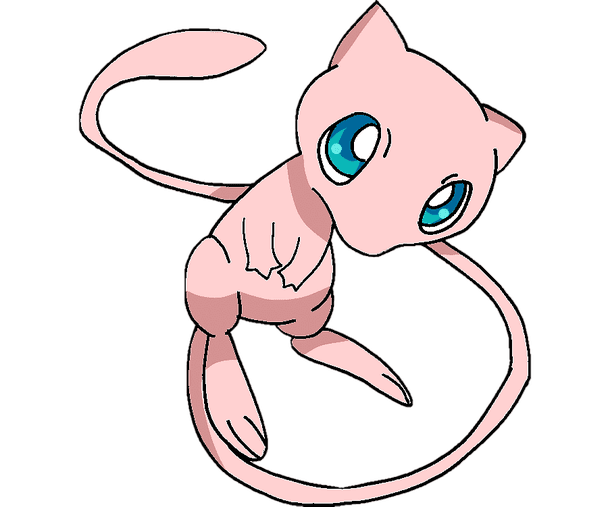
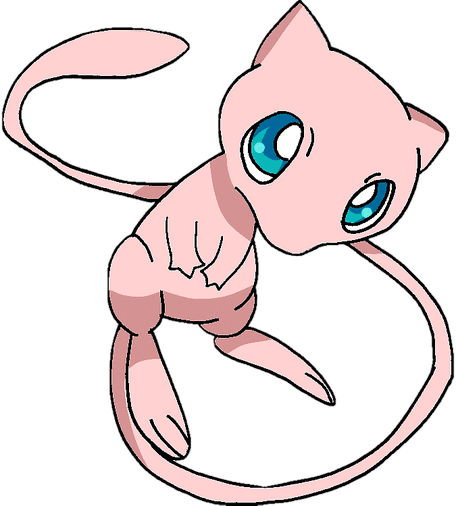
debugging solved : added parameter to function handleHit in countHits.js to collect pokemon's name // added responsive style

Changed region(s): [[0.0, 0.0, 1.0, 1.0]]

diff --git a/src/App.js b/src/App.js
@@ -30,24 +30,7 @@ function App() {
 
     // Fonction
     const handleHitAction = (pokemon, powerHit) => {
-        console.log(`le pokemon est ${pokemon}`);
-        console.log(`type de la variable pokemon :`);
-        console.log(typeof pokemon);
-        console.log(`type de power Hit :`);
-        console.log(typeof powerHit);
         if (pokemon === "MewTwo") {
-            // if (mewTwoLife >= 0 && !(mewTwoLife <= powerHit)) {
-            //     // Decrease Life of Mewtwo
-            //     setMewTwoLife(prevState => prevState - powerHit);
-
-            //     // Switch Hit to MewTwo
-            //     setButtonInGameNotAvaibleMew(true);
-            //     setButtonInGameNotAvaibleMewTwo(false);
-            // } else {
-            //     setMewTwoLife(0);
-            //     setIsButtonNotAvaible(true);
-            // }
-
             if (mewLife >= 0 && !(mewLife <= powerHit)) {
                 // Decrease Life of Mew
                 setMewLife(prevState => prevState - powerHit);
@@ -60,18 +43,6 @@ function App() {
                 setIsButtonNotAvaible(true);
             }
         } else {
-            // if (mewLife >= 0 && !(mewLife <= powerHit)) {
-            //     // Decrease Life of Mew
-            //     setMewLife(prevState => prevState - powerHit);
-
-            //     // Switch Hit to Mew
-            //     setButtonInGameNotAvaibleMewTwo(true);
-            //     setButtonInGameNotAvaibleMew(false);
-            // } else {
-            //     setMewLife(0);
-            //     setIsButtonNotAvaible(true);
-            // }
-
             if (mewTwoLife >= 0 && !(mewTwoLife <= powerHit)) {
                 // Decrease Life of Mewtwo
                 setMewTwoLife(prevState => prevState - powerHit);

diff --git a/src/App.css b/src/App.css
@@ -23,12 +23,13 @@ h2 {
 .divPokemon {
     display: flex;
     justify-content: space-evenly;
-    /* align-items: center; */
     margin-block: 30px;
 }
 
 img {
-    max-height: 35vh;
+    max-height: 350px;
+    height: 100%;
+    margin-inline: 10px;
 }
 
 .deadBadge {
@@ -50,7 +51,7 @@ img {
 }
 
 hr.rounded {
-    width: 50%;
+    width: 70%;
     border-top: 1px solid #bbb;
     border-radius: 40px;
     opacity: 0.4;
@@ -58,9 +59,9 @@ hr.rounded {
 
 table {
     border-collapse: collapse;
-    width: 60%;
-    max-width: 700px;
-    min-width: 400px;
+    width: 100%;
+    max-width: 500px;
+    min-width: 150px;
     text-align: center;
     table-layout: fixed;
 }
@@ -68,7 +69,43 @@ table {
 th,
 td {
     height: 40px;
-
+    max-width: 40px;
     padding: 4px;
-    /* vertical-align: middle; */
+}
+
+@media screen and (max-width: 800px) {
+    img {
+        max-height: 300px;
+    }
+
+    hr.rounded {
+        width: 80%;
+        border-top: 1px solid #bbb;
+        border-radius: 40px;
+        opacity: 0.4;
+    }
+}
+
+@media screen and (max-width: 660px) {
+    h1 {
+        font-size: 30px;
+    }
+
+    h2 {
+        font-size: 22px;
+    }
+
+    table {
+        font-size: 13px;
+    }
+
+    img {
+        max-height: 300px;
+    }
+}
+
+@media screen and (max-width: 560px) {
+    img {
+        max-height: 200px;
+    }
 }

diff --git a/src/hoc/countHits.js b/src/hoc/countHits.js
@@ -14,9 +14,7 @@ const countHits = WrappedComponent => {
         // Fonction
         const handleHit = pokemonName => {
             setHits(prevState => prevState + 1);
-            console.log(
-                `nom du pokemon dans fonction countHits : ${WrappedComponent.name}`,
-            );
+
             props.handleHitAction(pokemonName, powerHit);
         };
 

diff --git a/src/Components/Button/Button.module.css b/src/Components/Button/Button.module.css
@@ -11,3 +11,9 @@
 .button:active {
     transform: scale(0.95);
 }
+
+@media screen and (max-width: 560px) {
+    .button {
+        padding: 10px;
+    }
+}
